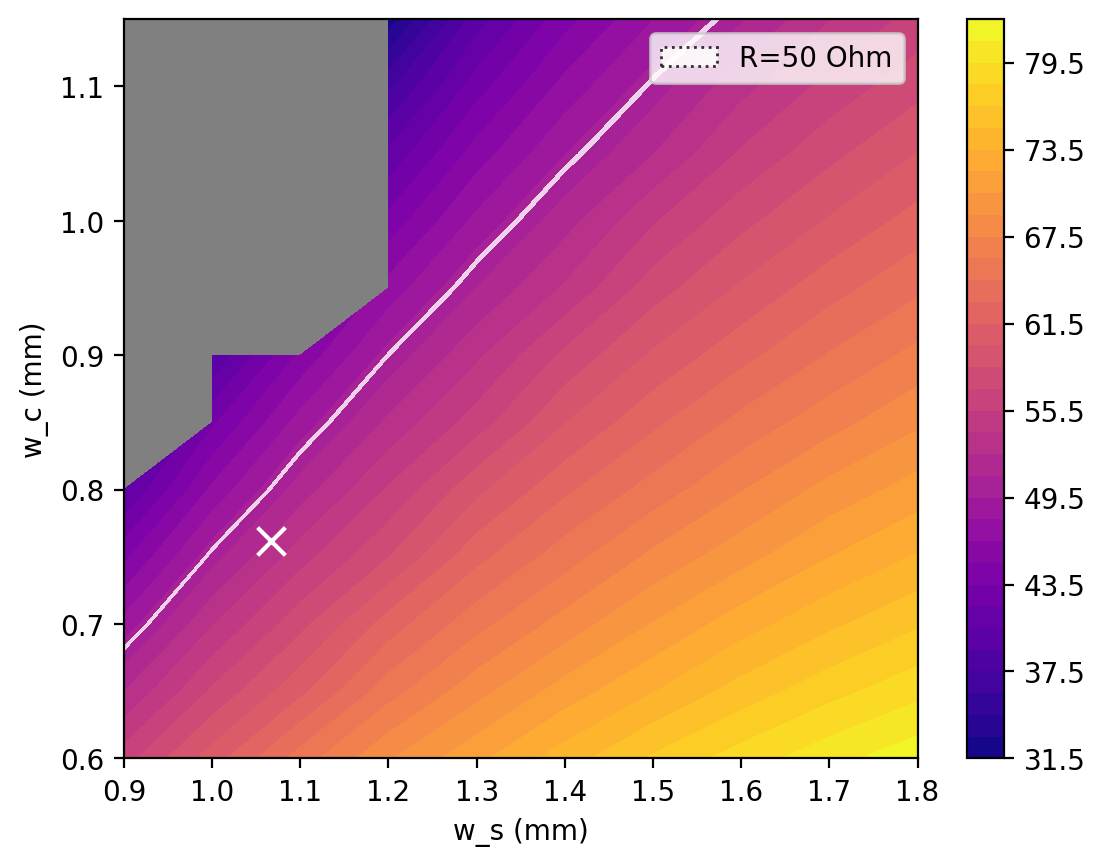
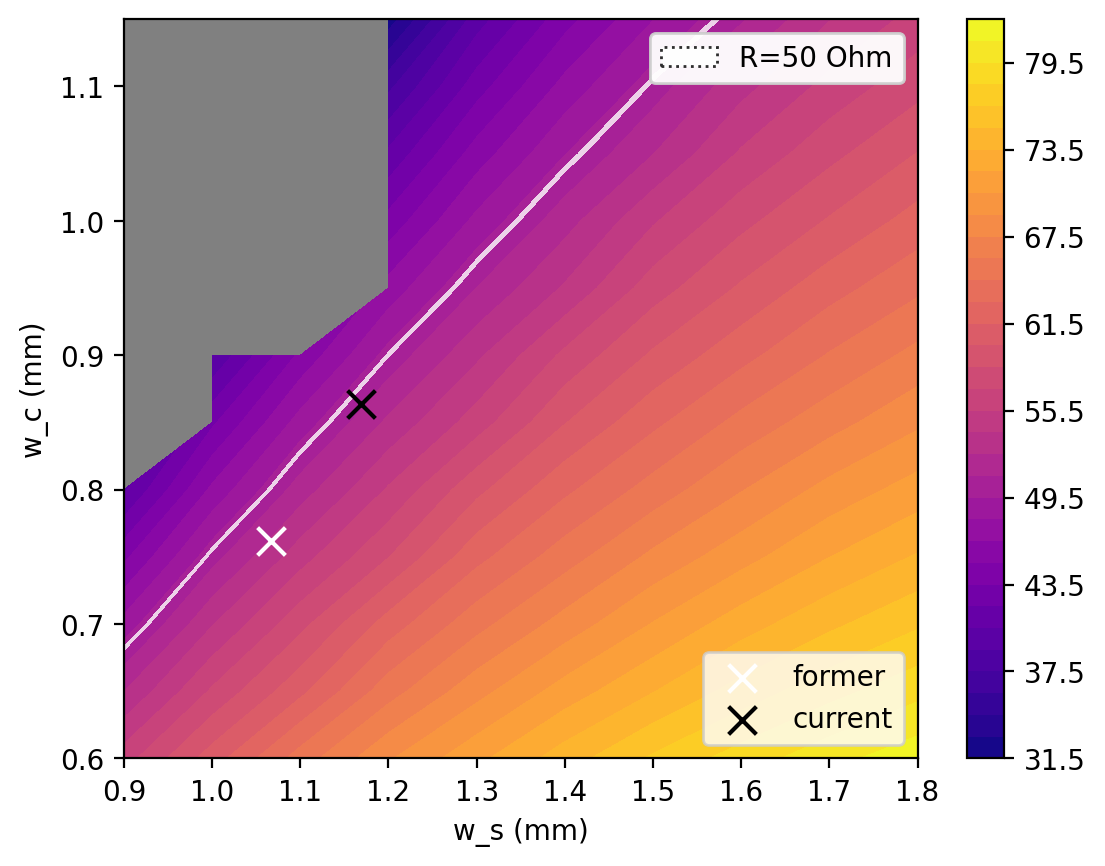
update

Changed region(s): [[0.6154, 0.7483, 0.8308, 0.873], [0.5846, 0.0312, 0.8308, 0.0935], [0.3077, 0.4365, 0.3385, 0.4988]]

diff --git a/231015_gcpw/gcpw_impedance.py b/231015_gcpw/gcpw_impedance.py
@@ -59,13 +59,25 @@ plt.contourf(
     alpha=0.8,
     linestyles="dotted",
 )
-plt.scatter(1.067, 0.762, marker="x", color="white", s=100)
+plt.scatter(1.067, 0.762, marker="x", color="white", s=100, label="former")
+plt.scatter(1.1684, 0.8636, marker="x", color="black", s=100, label="current")
 plt.xlabel("w_s (mm)")
 plt.ylabel("w_c (mm)")
 
 from matplotlib.patches import Patch
 
-# 手动创建一个带有标签的图例
+# # 手动创建一个带有标签的图例
+# legend_elements = [
+#     Patch(
+#         facecolor="white",
+#         edgecolor="black",
+#         alpha=0.8,
+#         linestyle="dotted",
+#         label="R=50 Ohm",
+#     )
+# ]
+# plt.legend(handles=legend_elements)
+# Custom legend element
 legend_elements = [
     Patch(
         facecolor="white",
@@ -75,6 +87,14 @@ legend_elements = [
         label="R=50 Ohm",
     )
 ]
-plt.legend(handles=legend_elements)
+
+# Create a legend combining handles from scatter plots and custom legend element
+scatter_legend = plt.legend(loc="lower right")
+custom_legend = plt.legend(handles=legend_elements, loc="upper right")
+
+# Add both legends to the same axis
+ax = plt.gca().add_artist(scatter_legend)
+plt.gca().add_artist(custom_legend)
+#
 plt.savefig("gcpw_impedance.png", dpi=200, bbox_inches="tight")
 plt.show()
